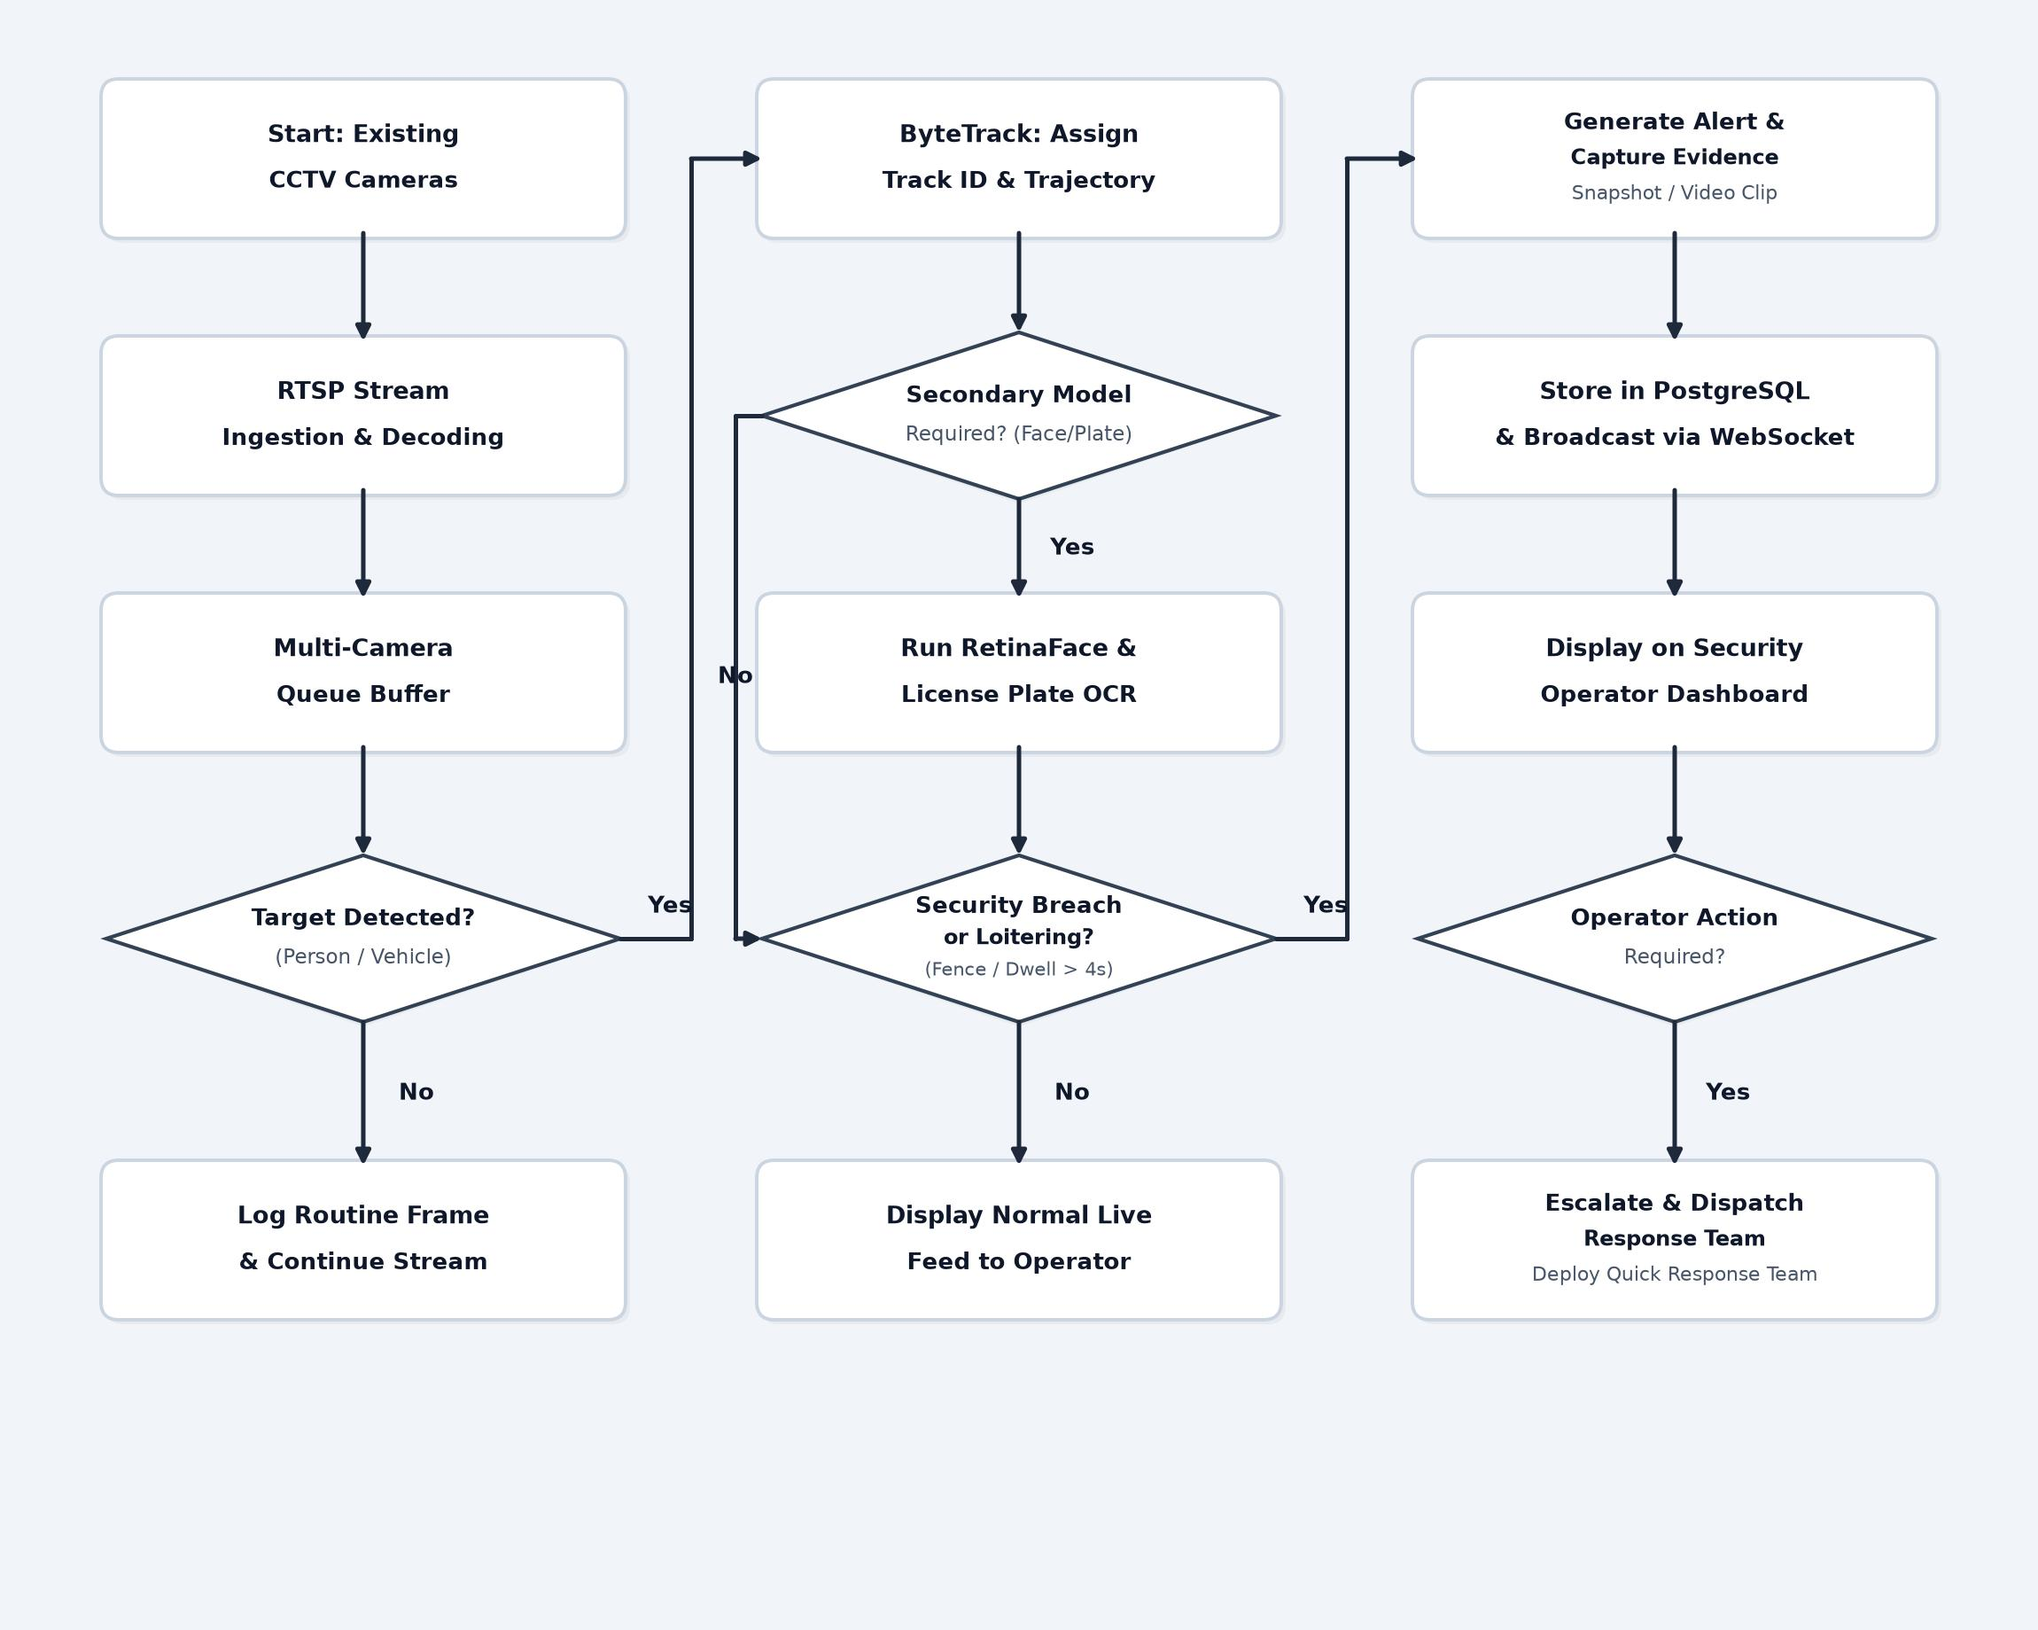
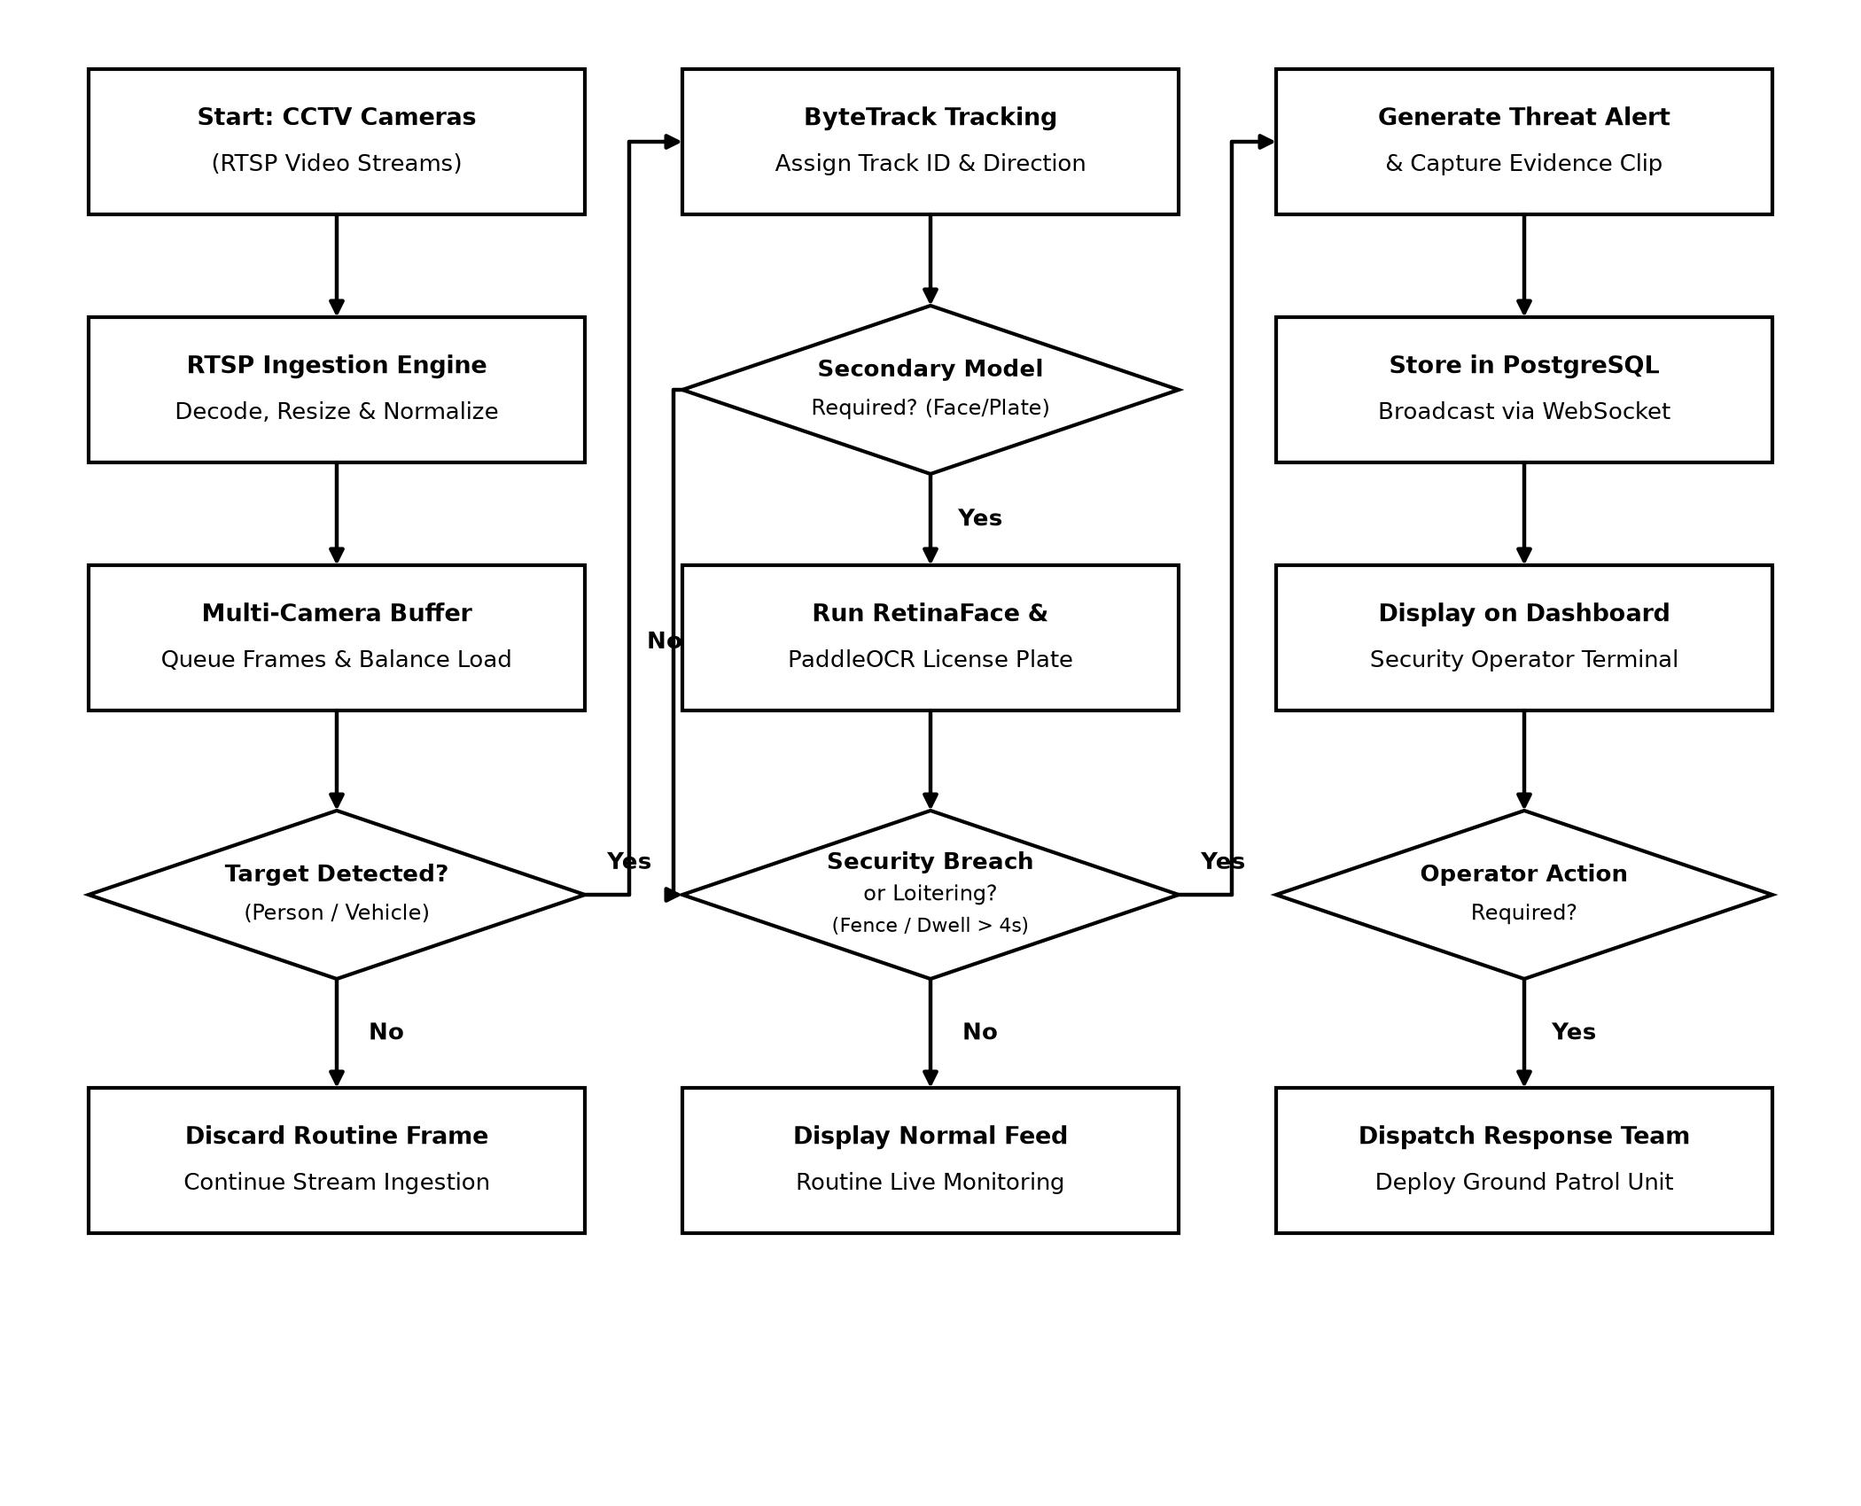
style: simple clean black-and-white system design flowchart without fancy decorations

diff --git a/render_flowchart.py b/render_flowchart.py
@@ -1,195 +1,182 @@
 import matplotlib.pyplot as plt
 import matplotlib.patches as patches
-from matplotlib.patches import FancyBboxPatch, Polygon
+from matplotlib.patches import Polygon
 
 # =========================================================================
-# SYSTEM DESIGN & LOGIC DECISION FLOWCHART
-# Engineered specifically for half-page placement in PowerPoint (Aspect Ratio 4:3)
-# Clean, deterministic, mathematically aligned 3-column architecture
+# SIMPLE SYSTEM DESIGN FLOWCHART (No fancy decorations, pure clean architecture)
+# Formatted for half-page placement in PowerPoint slides (Aspect ratio 4:3)
 # =========================================================================
-fig = plt.figure(figsize=(11.5, 9.2), dpi=160)
+fig = plt.figure(figsize=(10.5, 8.5), dpi=160)
 ax = fig.add_axes([0, 0, 1, 1])
-ax.set_xlim(0, 11.5)
-ax.set_ylim(0, 9.2)
+ax.set_xlim(0, 10.5)
+ax.set_ylim(0, 8.5)
 ax.axis('off')
 
-# Clean background matching presentation reference
-bg_color = '#F1F5F9'
-fig.patch.set_facecolor(bg_color)
-ax.set_facecolor(bg_color)
+# Pure clean white background
+fig.patch.set_facecolor('#FFFFFF')
+ax.set_facecolor('#FFFFFF')
 
-# Helper: Draw Card
-def draw_card(cx, cy, w=2.90, h=0.84, title="", line2="", line3="", border="#CBD5E1", fill="#FFFFFF", tcol="#0F172A"):
+# Helper: Simple Rectangle Box (clean black border, pure white fill, no shadows)
+def draw_box(cx, cy, w=2.80, h=0.82, title="", line2="", line3=""):
     x = cx - w / 2
     y = cy - h / 2
-    
-    # Subtle drop shadow
-    shadow = FancyBboxPatch((x + 0.025, y - 0.025), w, h, boxstyle="round,pad=0.03,rounding_size=0.10",
-                            facecolor="#000000", edgecolor="none", alpha=0.04)
-    ax.add_patch(shadow)
-    
-    # White card
-    card = FancyBboxPatch((x, y), w, h, boxstyle="round,pad=0.03,rounding_size=0.10",
-                          facecolor=fill, edgecolor=border, linewidth=1.4)
-    ax.add_patch(card)
+    rect = patches.Rectangle((x, y), w, h, linewidth=1.5, edgecolor='#000000', facecolor='#FFFFFF')
+    ax.add_patch(rect)
     
     lines = [l for l in [title, line2, line3] if l]
     if len(lines) == 1:
-        ax.text(cx, cy, lines[0], color=tcol, fontsize=10.0, fontweight='bold', ha='center', va='center', fontfamily='sans-serif')
+        ax.text(cx, cy, lines[0], color='#000000', fontsize=10.0, fontweight='bold', ha='center', va='center', fontfamily='sans-serif')
     elif len(lines) == 2:
-        ax.text(cx, cy + 0.13, lines[0], color=tcol, fontsize=9.8, fontweight='bold', ha='center', va='center', fontfamily='sans-serif')
-        ax.text(cx, cy - 0.13, lines[1], color=tcol, fontsize=9.2, fontweight='bold', ha='center', va='center', fontfamily='sans-serif')
+        ax.text(cx, cy + 0.13, lines[0], color='#000000', fontsize=9.8, fontweight='bold', ha='center', va='center', fontfamily='sans-serif')
+        ax.text(cx, cy - 0.13, lines[1], color='#000000', fontsize=9.2, ha='center', va='center', fontfamily='sans-serif')
     elif len(lines) == 3:
-        ax.text(cx, cy + 0.20, lines[0], color=tcol, fontsize=9.5, fontweight='bold', ha='center', va='center', fontfamily='sans-serif')
-        ax.text(cx, cy, lines[1], color=tcol, fontsize=8.8, fontweight='bold', ha='center', va='center', fontfamily='sans-serif')
-        ax.text(cx, cy - 0.20, lines[2], color="#475569", fontsize=8.0, ha='center', va='center', fontfamily='sans-serif')
+        ax.text(cx, cy + 0.20, lines[0], color='#000000', fontsize=9.5, fontweight='bold', ha='center', va='center', fontfamily='sans-serif')
+        ax.text(cx, cy, lines[1], color='#000000', fontsize=9.0, ha='center', va='center', fontfamily='sans-serif')
+        ax.text(cx, cy - 0.20, lines[2], color='#000000', fontsize=8.2, ha='center', va='center', fontfamily='sans-serif')
 
-# Helper: Draw Diamond
-def draw_diamond(cx, cy, dw=2.90, dh=0.94, title="", line2="", line3="", border="#334155", fill="#FFFFFF", tcol="#0F172A"):
-    # Subtle drop shadow
-    shadow = Polygon([[cx, cy + dh/2 - 0.025], [cx + dw/2 + 0.025, cy], [cx, cy - dh/2 - 0.025], [cx - dw/2 - 0.025, cy]],
-                     closed=True, facecolor="#000000", edgecolor="none", alpha=0.04)
-    ax.add_patch(shadow)
-    
-    # Diamond
+# Helper: Simple Diamond Box (clean black border, pure white fill, no shadows)
+def draw_diamond(cx, cy, dw=2.80, dh=0.95, title="", line2="", line3=""):
     diamond = Polygon([[cx, cy + dh/2], [cx + dw/2, cy], [cx, cy - dh/2], [cx - dw/2, cy]],
-                      closed=True, facecolor=fill, edgecolor=border, linewidth=1.5)
+                      closed=True, facecolor='#FFFFFF', edgecolor='#000000', linewidth=1.5)
     ax.add_patch(diamond)
     
     lines = [l for l in [title, line2, line3] if l]
     if len(lines) == 1:
-        ax.text(cx, cy, lines[0], color=tcol, fontsize=9.8, fontweight='bold', ha='center', va='center', fontfamily='sans-serif')
+        ax.text(cx, cy, lines[0], color='#000000', fontsize=9.8, fontweight='bold', ha='center', va='center', fontfamily='sans-serif')
     elif len(lines) == 2:
-        ax.text(cx, cy + 0.11, lines[0], color=tcol, fontsize=9.5, fontweight='bold', ha='center', va='center', fontfamily='sans-serif')
-        ax.text(cx, cy - 0.11, lines[1], color="#475569", fontsize=8.4, ha='center', va='center', fontfamily='sans-serif')
+        ax.text(cx, cy + 0.11, lines[0], color='#000000', fontsize=9.5, fontweight='bold', ha='center', va='center', fontfamily='sans-serif')
+        ax.text(cx, cy - 0.11, lines[1], color='#000000', fontsize=8.6, ha='center', va='center', fontfamily='sans-serif')
     elif len(lines) == 3:
-        ax.text(cx, cy + 0.18, lines[0], color=tcol, fontsize=9.2, fontweight='bold', ha='center', va='center', fontfamily='sans-serif')
-        ax.text(cx, cy, lines[1], color=tcol, fontsize=8.6, fontweight='bold', ha='center', va='center', fontfamily='sans-serif')
-        ax.text(cx, cy - 0.18, lines[2], color="#475569", fontsize=7.6, ha='center', va='center', fontfamily='sans-serif')
+        ax.text(cx, cy + 0.18, lines[0], color='#000000', fontsize=9.2, fontweight='bold', ha='center', va='center', fontfamily='sans-serif')
+        ax.text(cx, cy, lines[1], color='#000000', fontsize=8.8, ha='center', va='center', fontfamily='sans-serif')
+        ax.text(cx, cy - 0.18, lines[2], color='#000000', fontsize=7.8, ha='center', va='center', fontfamily='sans-serif')
 
-def draw_arrow(x1, y1, x2, y2, color="#1E293B", lw=1.8):
+# Helper: Simple Straight Black Arrow
+def draw_arrow(x1, y1, x2, y2):
     ax.annotate('', xy=(x2, y2), xytext=(x1, y1),
-                arrowprops=dict(arrowstyle="-|>", color=color, lw=lw, mutation_scale=12, shrinkA=0, shrinkB=0))
+                arrowprops=dict(arrowstyle="-|>", color='#000000', lw=1.6, mutation_scale=12, shrinkA=0, shrinkB=0))
 
-def draw_corner_arrow(points, color="#1E293B", lw=1.8):
+# Helper: Simple Corner Arrow
+def draw_corner_arrow(points):
     for i in range(len(points) - 2):
         p1, p2 = points[i], points[i+1]
-        ax.plot([p1[0], p2[0]], [p1[1], p2[1]], color=color, lw=lw, solid_capstyle='round')
+        ax.plot([p1[0], p2[0]], [p1[1], p2[1]], color='#000000', lw=1.6, solid_capstyle='round')
     p1, p2 = points[-2], points[-1]
     ax.annotate('', xy=(p2[0], p2[1]), xytext=(p1[0], p1[1]),
-                arrowprops=dict(arrowstyle="-|>", color=color, lw=lw, mutation_scale=12, shrinkA=0, shrinkB=0))
+                arrowprops=dict(arrowstyle="-|>", color='#000000', lw=1.6, mutation_scale=12, shrinkA=0, shrinkB=0))
 
-def draw_label(x, y, text, color="#0F172A"):
-    ax.text(x, y, text, color=color, fontsize=9.2, fontweight='bold', ha='center', va='center', fontfamily='sans-serif')
+# Helper: Plain Text Branch Label
+def draw_label(x, y, text):
+    ax.text(x, y, text, color='#000000', fontsize=9.5, fontweight='bold', ha='center', va='center', fontfamily='sans-serif')
 
 
 # =========================================================================
-# EXACT 3-COLUMN × 5-ROW COORDINATE GRID
+# SIMPLE 3-COLUMN GRID
 # =========================================================================
-c1_x = 2.05
-c2_x = 5.75
-c3_x = 9.45
+col1_x = 1.90
+col2_x = 5.25
+col3_x = 8.60
 
-card_w = 2.90
-card_h = 0.84
-dw = 2.90
-dh = 0.94
+w_box = 2.80
+h_box = 0.82
+dw = 2.80
+dh = 0.95
 
-# Exact Horizontal Y-Alignments across all 3 columns
-row1_y = 8.30
-row2_y = 6.85
-row3_y = 5.40
-row4_y = 3.90
-row5_y = 2.20
+# 5 Balanced Horizontal Rows
+y_r1 = 7.70
+y_r2 = 6.30
+y_r3 = 4.90
+y_r4 = 3.45
+y_r5 = 1.95
 
-# ----------------- COLUMN 1: Ingestion & Target Filtering -----------------
-draw_card(c1_x, row1_y, card_w, card_h, "Start: Existing", "CCTV Cameras")
+# ----------------- COLUMN 1: Ingestion & Frame Selection -----------------
+draw_box(col1_x, y_r1, w_box, h_box, "Start: CCTV Cameras", "(RTSP Video Streams)")
 
-draw_arrow(c1_x, row1_y - card_h/2, c1_x, row2_y + card_h/2)
-draw_card(c1_x, row2_y, card_w, card_h, "RTSP Stream", "Ingestion & Decoding")
+draw_arrow(col1_x, y_r1 - h_box/2, col1_x, y_r2 + h_box/2)
+draw_box(col1_x, y_r2, w_box, h_box, "RTSP Ingestion Engine", "Decode, Resize & Normalize")
 
-draw_arrow(c1_x, row2_y - card_h/2, c1_x, row3_y + card_h/2)
-draw_card(c1_x, row3_y, card_w, card_h, "Multi-Camera", "Queue Buffer")
+draw_arrow(col1_x, y_r2 - h_box/2, col1_x, y_r3 + h_box/2)
+draw_box(col1_x, y_r3, w_box, h_box, "Multi-Camera Buffer", "Queue Frames & Balance Load")
 
-draw_arrow(c1_x, row3_y - card_h/2, c1_x, row4_y + dh/2)
-draw_diamond(c1_x, row4_y, dw, dh, "Target Detected?", "(Person / Vehicle)")
+draw_arrow(col1_x, y_r3 - h_box/2, col1_x, y_r4 + dh/2)
+draw_diamond(col1_x, y_r4, dw, dh, "Target Detected?", "(Person / Vehicle)")
 
-# Branch No -> Log Routine Frame
-draw_arrow(c1_x, row4_y - dh/2, c1_x, row5_y + card_h/2)
-draw_label(c1_x + 0.30, (row4_y - dh/2 + row5_y + card_h/2)/2, "No")
-draw_card(c1_x, row5_y, card_w, card_h, "Log Routine Frame", "& Continue Stream")
+# Branch No -> Discard Frame
+draw_arrow(col1_x, y_r4 - dh/2, col1_x, y_r5 + h_box/2)
+draw_label(col1_x + 0.28, (y_r4 - dh/2 + y_r5 + h_box/2)/2, "No")
+draw_box(col1_x, y_r5, w_box, h_box, "Discard Routine Frame", "Continue Stream Ingestion")
 
-# Branch Yes -> Connects to Column 2 ByteTrack (Channel X = 3.90)
-channel_12 = 3.90
+# Branch Yes -> Connects to Column 2 AI Tracking
+ch12_x = 3.55
 draw_corner_arrow([
-    (c1_x + dw/2, row4_y),
-    (channel_12, row4_y),
-    (channel_12, row1_y),
-    (c2_x - card_w/2, row1_y)
+    (col1_x + dw/2, y_r4),
+    (ch12_x, y_r4),
+    (ch12_x, y_r1),
+    (col2_x - w_box/2, y_r1)
 ])
-draw_label(c1_x + dw/2 + 0.28, row4_y + 0.18, "Yes")
+draw_label(col1_x + dw/2 + 0.25, y_r4 + 0.18, "Yes")
 
 
 # ----------------- COLUMN 2: AI Pipeline & Intelligence -----------------
-draw_card(c2_x, row1_y, card_w, card_h, "ByteTrack: Assign", "Track ID & Trajectory")
+draw_box(col2_x, y_r1, w_box, h_box, "ByteTrack Tracking", "Assign Track ID & Direction")
 
-draw_arrow(c2_x, row1_y - card_h/2, c2_x, row2_y + dh/2)
-draw_diamond(c2_x, row2_y, dw, dh, "Secondary Model", "Required? (Face/Plate)")
+draw_arrow(col2_x, y_r1 - h_box/2, col2_x, y_r2 + dh/2)
+draw_diamond(col2_x, y_r2, dw, dh, "Secondary Model", "Required? (Face/Plate)")
 
-# Branch Yes -> Run RetinaFace & License Plate OCR
-draw_arrow(c2_x, row2_y - dh/2, c2_x, row3_y + card_h/2)
-draw_label(c2_x + 0.30, (row2_y - dh/2 + row3_y + card_h/2)/2, "Yes")
-draw_card(c2_x, row3_y, card_w, card_h, "Run RetinaFace &", "License Plate OCR")
+# Branch Yes -> Face & Plate Models
+draw_arrow(col2_x, y_r2 - dh/2, col2_x, y_r3 + h_box/2)
+draw_label(col2_x + 0.28, (y_r2 - dh/2 + y_r3 + h_box/2)/2, "Yes")
+draw_box(col2_x, y_r3, w_box, h_box, "Run RetinaFace &", "PaddleOCR License Plate")
 
-# Arrow from RetinaFace into Security Breach
-draw_arrow(c2_x, row3_y - card_h/2, c2_x, row4_y + dh/2)
+draw_arrow(col2_x, y_r3 - h_box/2, col2_x, y_r4 + dh/2)
 
-# Branch No (Bypass around RetinaFace on internal left channel X = 4.15)
+# Branch No (Bypass around Face/Plate model to Security Breach)
+ch2_bypass = 3.80
 draw_corner_arrow([
-    (c2_x - dw/2, row2_y),
-    (4.15, row2_y),
-    (4.15, row4_y),
-    (c2_x - dw/2, row4_y)
+    (col2_x - dw/2, y_r2),
+    (ch2_bypass, y_r2),
+    (ch2_bypass, y_r4),
+    (col2_x - dw/2, y_r4)
 ])
-draw_label(4.15, (row2_y + row4_y)/2, "No")
+draw_label(ch2_bypass - 0.05, (y_r2 + y_r4)/2, "No")
 
-# Diamond 3: Security Breach or Loitering?
-draw_diamond(c2_x, row4_y, dw, dh, "Security Breach", "or Loitering?", "(Fence / Dwell > 4s)")
+# Diamond: Security Breach or Loitering?
+draw_diamond(col2_x, y_r4, dw, dh, "Security Breach", "or Loitering?", "(Fence / Dwell > 4s)")
 
 # Branch No -> Display Normal Live Feed
-draw_arrow(c2_x, row4_y - dh/2, c2_x, row5_y + card_h/2)
-draw_label(c2_x + 0.30, (row4_y - dh/2 + row5_y + card_h/2)/2, "No")
-draw_card(c2_x, row5_y, card_w, card_h, "Display Normal Live", "Feed to Operator")
+draw_arrow(col2_x, y_r4 - dh/2, col2_x, y_r5 + h_box/2)
+draw_label(col2_x + 0.28, (y_r4 - dh/2 + y_r5 + h_box/2)/2, "No")
+draw_box(col2_x, y_r5, w_box, h_box, "Display Normal Feed", "Routine Live Monitoring")
 
-# Branch Yes -> Connects to Column 3 Alert (Channel X = 7.60)
-channel_23 = 7.60
+# Branch Yes -> Connects to Column 3 Alert
+ch23_x = 6.95
 draw_corner_arrow([
-    (c2_x + dw/2, row4_y),
-    (channel_23, row4_y),
-    (channel_23, row1_y),
-    (c3_x - card_w/2, row1_y)
+    (col2_x + dw/2, y_r4),
+    (ch23_x, y_r4),
+    (ch23_x, y_r1),
+    (col3_x - w_box/2, y_r1)
 ])
-draw_label(c2_x + dw/2 + 0.28, row4_y + 0.18, "Yes")
+draw_label(col2_x + dw/2 + 0.25, y_r4 + 0.18, "Yes")
 
 
-# ----------------- COLUMN 3: Command Center & Response -----------------
-draw_card(c3_x, row1_y, card_w, card_h, "Generate Alert &", "Capture Evidence", "Snapshot / Video Clip")
+# ----------------- COLUMN 3: Alert & Command Dashboard -----------------
+draw_box(col3_x, y_r1, w_box, h_box, "Generate Threat Alert", "& Capture Evidence Clip")
 
-draw_arrow(c3_x, row1_y - card_h/2, c3_x, row2_y + card_h/2)
-draw_card(c3_x, row2_y, card_w, card_h, "Store in PostgreSQL", "& Broadcast via WebSocket")
+draw_arrow(col3_x, y_r1 - h_box/2, col3_x, y_r2 + h_box/2)
+draw_box(col3_x, y_r2, w_box, h_box, "Store in PostgreSQL", "Broadcast via WebSocket")
 
-draw_arrow(c3_x, row2_y - card_h/2, c3_x, row3_y + card_h/2)
-draw_card(c3_x, row3_y, card_w, card_h, "Display on Security", "Operator Dashboard")
+draw_arrow(col3_x, y_r2 - h_box/2, col3_x, y_r3 + h_box/2)
+draw_box(col3_x, y_r3, w_box, h_box, "Display on Dashboard", "Security Operator Terminal")
 
-draw_arrow(c3_x, row3_y - card_h/2, c3_x, row4_y + dh/2)
-draw_diamond(c3_x, row4_y, dw, dh, "Operator Action", "Required?")
+draw_arrow(col3_x, y_r3 - h_box/2, col3_x, y_r4 + dh/2)
+draw_diamond(col3_x, y_r4, dw, dh, "Operator Action", "Required?")
 
-# Branch Yes -> Escalate & Dispatch Unit
-draw_arrow(c3_x, row4_y - dh/2, c3_x, row5_y + card_h/2)
-draw_label(c3_x + 0.30, (row4_y - dh/2 + row5_y + card_h/2)/2, "Yes")
-draw_card(c3_x, row5_y, card_w, card_h, "Escalate & Dispatch", "Response Team", "Deploy Quick Response Team")
+# Branch Yes -> Dispatch Team
+draw_arrow(col3_x, y_r4 - dh/2, col3_x, y_r5 + h_box/2)
+draw_label(col3_x + 0.28, (y_r4 - dh/2 + y_r5 + h_box/2)/2, "Yes")
+draw_box(col3_x, y_r5, w_box, h_box, "Dispatch Response Team", "Deploy Ground Patrol Unit")
 
-# Save master outputs
-plt.savefig("flowchart_decision_tree_ppt.png", dpi=200, facecolor=fig.get_facecolor(), edgecolor='none')
-plt.savefig("flowchart_decision_tree_ppt.jpg", dpi=200, facecolor=fig.get_facecolor(), edgecolor='none')
-print("Successfully generated master half-slide flowchart!")
+# Save outputs
+plt.savefig("flowchart_decision_tree_ppt.png", dpi=200, facecolor='#FFFFFF', edgecolor='none')
+plt.savefig("flowchart_decision_tree_ppt.jpg", dpi=200, facecolor='#FFFFFF', edgecolor='none')
+print("Successfully rendered simple system design flowchart!")
